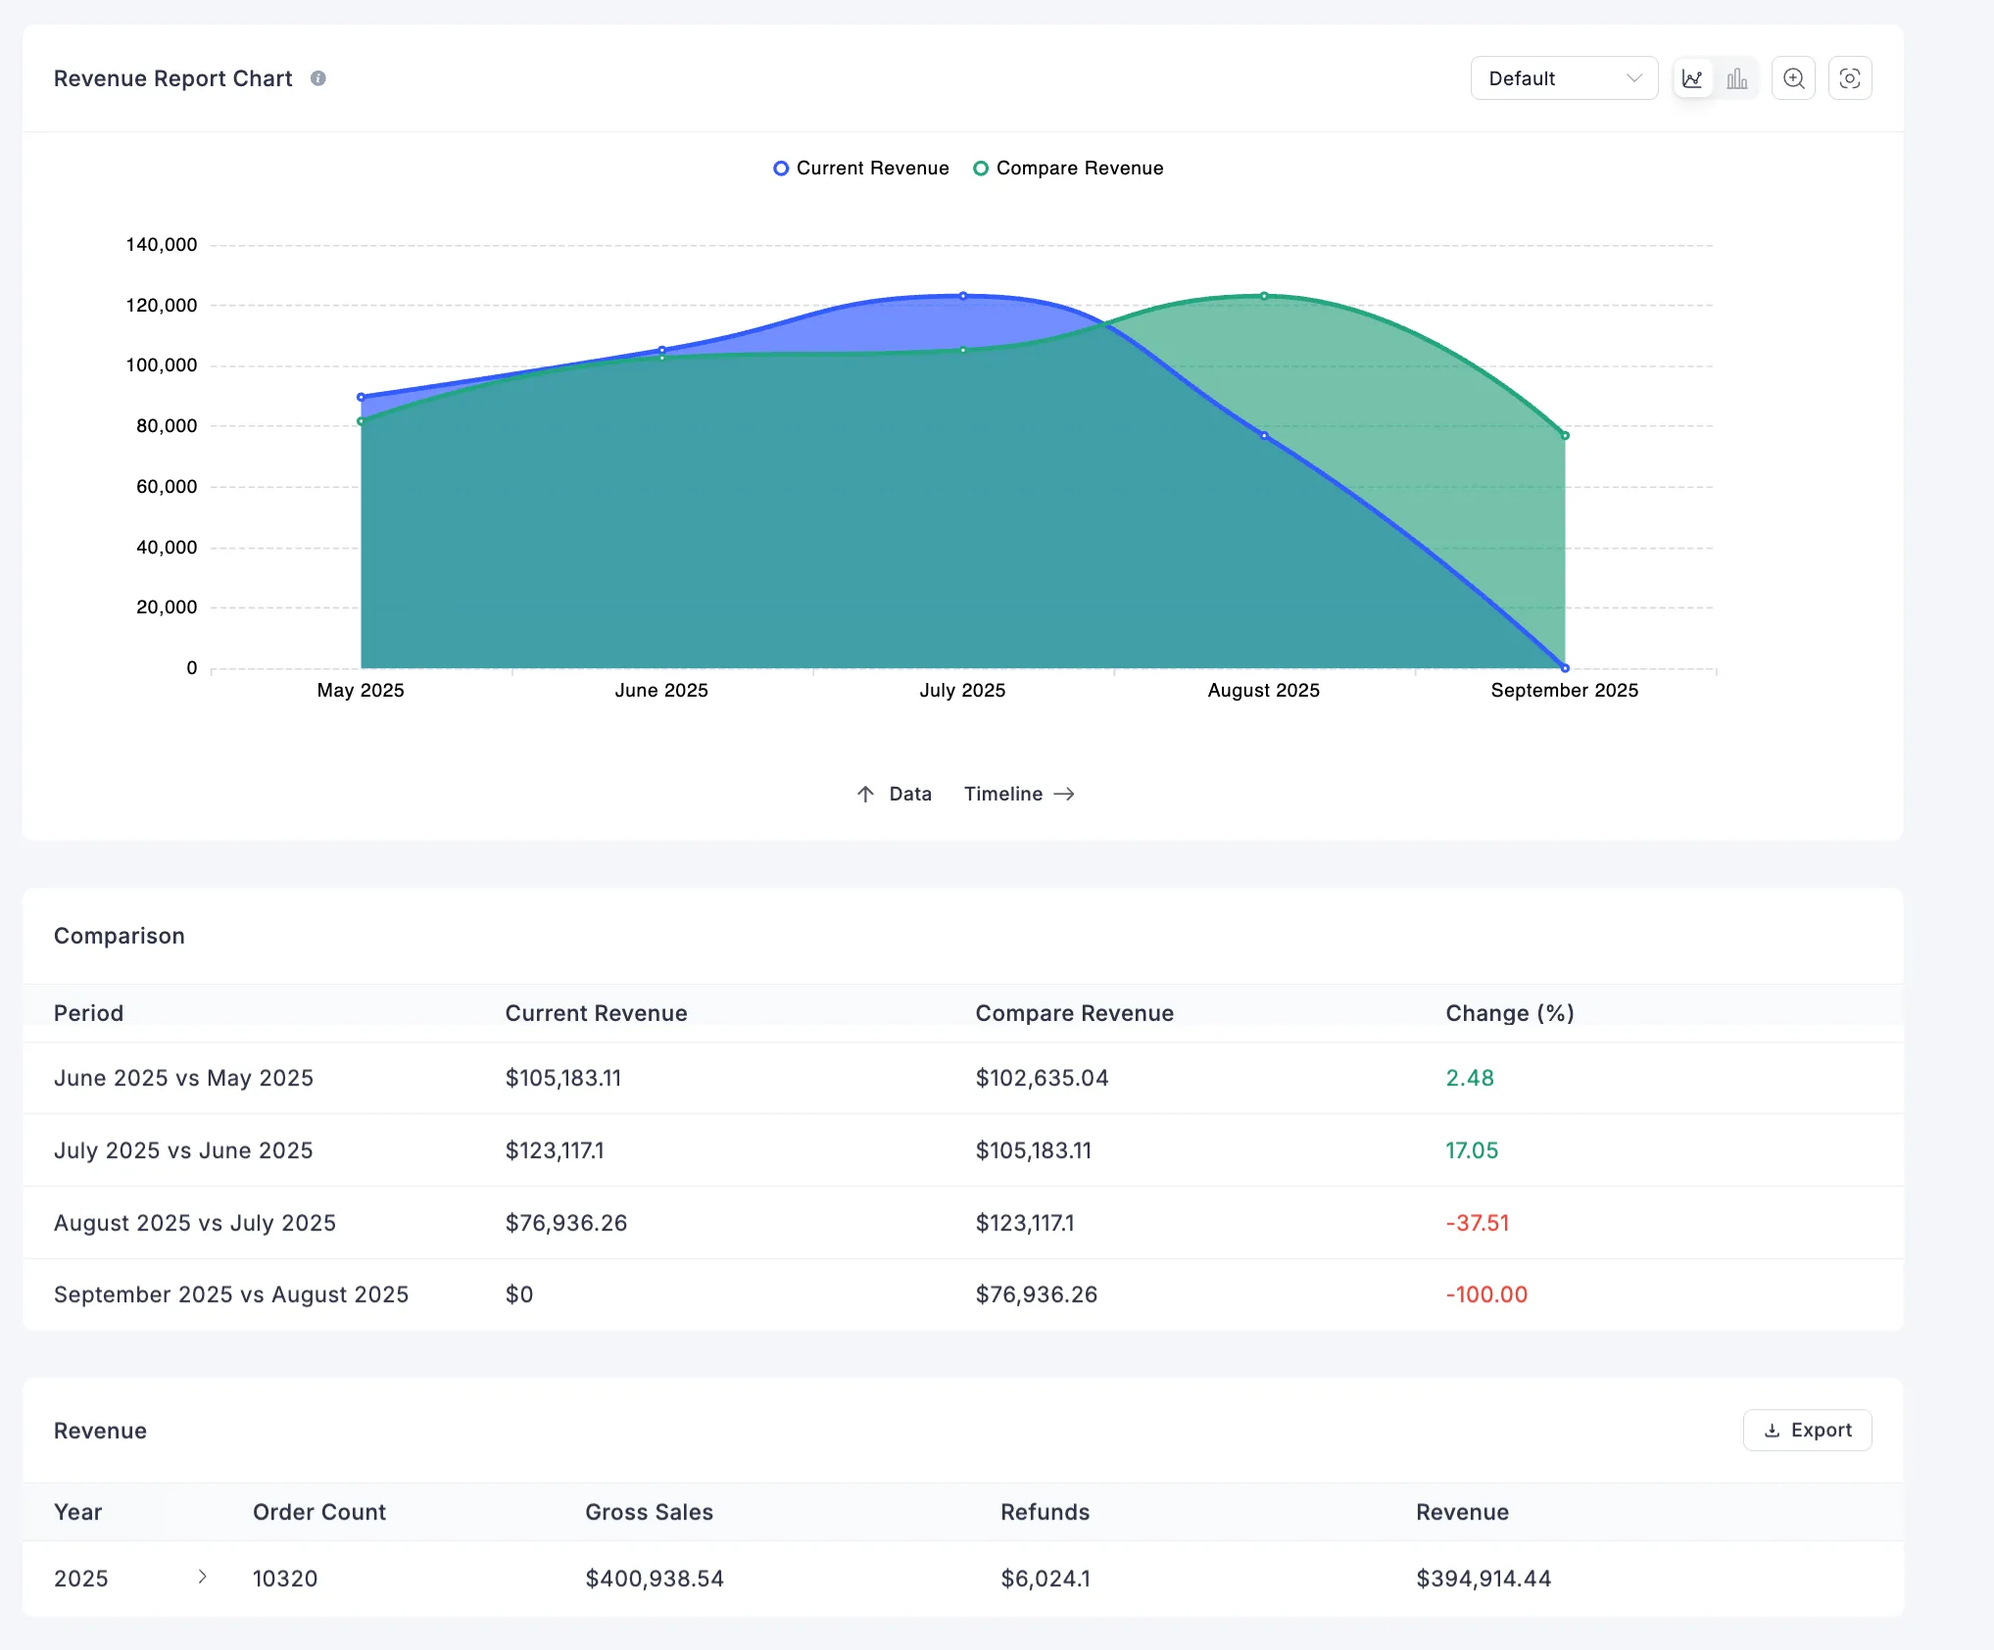
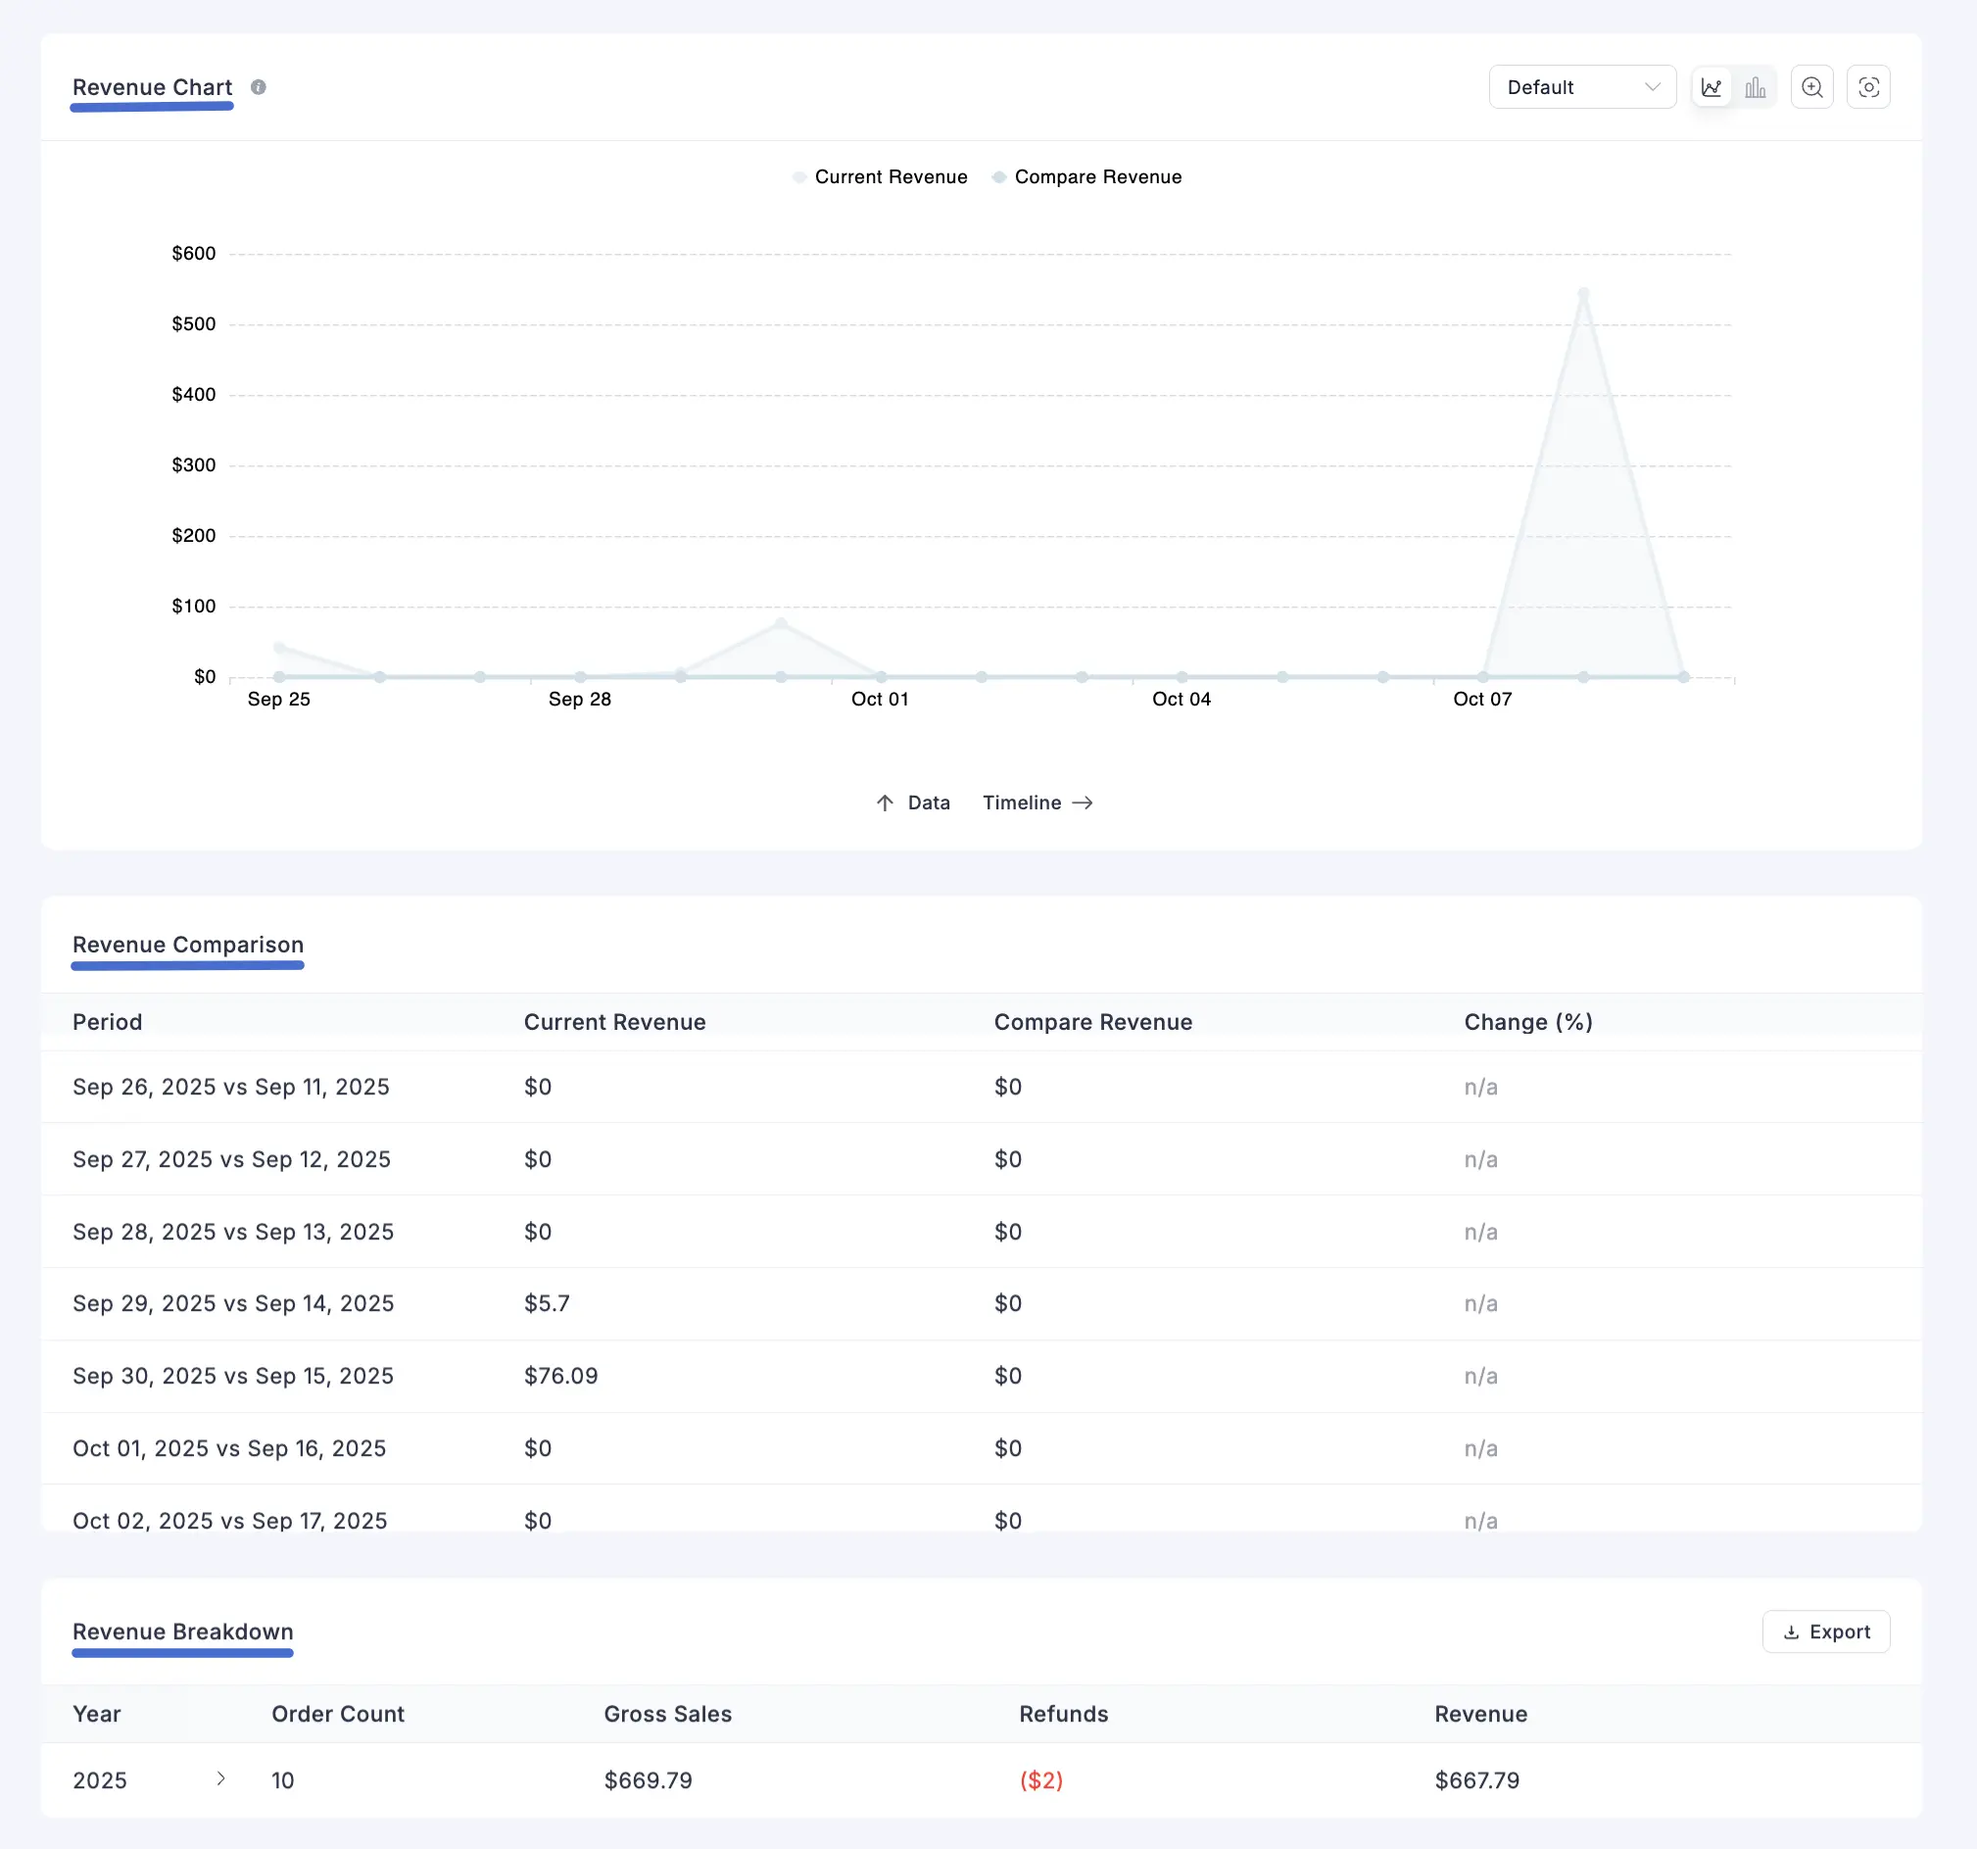
update Revenue Report doc
update Revenue Report doc description and image change

diff --git a/guide/reporting-analytics/revenue-report.md b/guide/reporting-analytics/revenue-report.md
@@ -23,15 +23,16 @@ At the top of the report, you’ll see a quick summary of your store’s sales a
 
 * **Gross Sales:** This represents the total revenue from all sales before any deductions are made. The percentage and trend arrow icon (▲ or ▼) next to the value show the increase or decrease compared to the comparison period.
 * **Refund:** This shows the total amount of money refunded. The percentage and trend arrow also show how this refund amount has changed compared to the selected period.
+* **Shipping:** This shows the total amount collected for shipping charges on orders. The percentage and trend arrow also show how this amount has changed compared to the selected period.
 * **Revenue:** This shows your total income after deductions like refunds have been subtracted. The percentage and trend arrow provide a direct comparison of your net revenue between the two selected periods.
 
 ### Detailed Revenue Analysis
 
 Below the key metrics, you’ll find detailed breakdowns of your store’s income. This section helps you see how well your store is performing.
 
-* **Revenue Report Chart:** This chart shows how your earnings have changed over time, making it easy to compare income from two different periods.
-* **Comparison Table:** This table provides the exact numbers from the chart, showing a period-by-period breakdown of your revenue and the percentage change.
-* **Revenue Breakdown by Year:** This table gives a yearly summary of your store, showing total orders, sales, refunds, and final revenue.
+* **Revenue Chart:** This chart shows how your earnings have changed over time, making it easy to compare income from two different periods.
+* **Revenue Comparison:** This table provides the exact numbers from the chart, showing a period-by-period breakdown of your revenue and the percentage change.
+* **Revenue Breakdown:** This table gives a yearly summary of your store, showing total orders, sales, refunds, and final revenue.
 
 The Revenue Report shows how your store is earning over time. You can easily see what’s working, understand your store’s earnings, and plan to make it grow.
 
